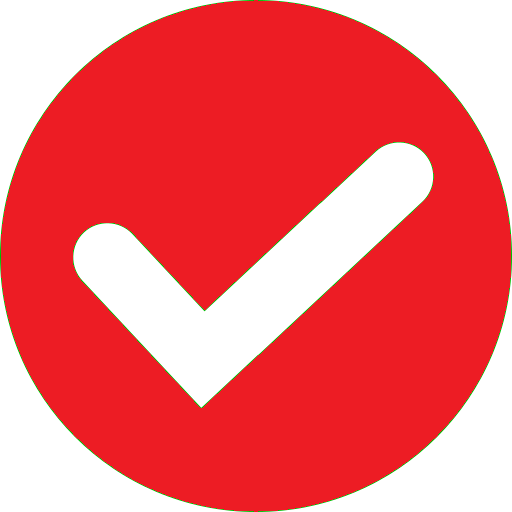
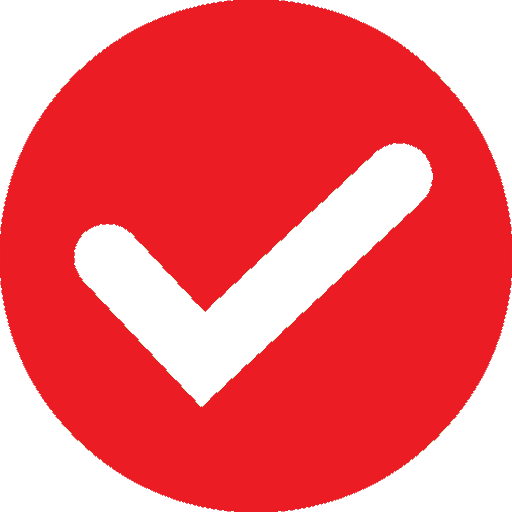
Funcionalities to show check button according days to check data added

diff --git a/src/scripts.js b/src/scripts.js
@@ -16,7 +16,7 @@ const getList = async () => {
       console.log("Data received from server:", data);
       data.dataset.forEach(item => insertList(item.name, item.area, 
         item.permitted, item.coordinate_system, item.check_date, 
-        item.format, item.source))
+        item.format, item.source, item.update_frequency_days));
     })
     .catch((error) => {
       console.error('Error:', error);
@@ -66,7 +66,7 @@ const postData = async (inputName, inputArea, inputDescription, inputSource,
   })
     .then((response) => {
       if (response.ok) {
-        insertList(inputName, inputArea, inputPermitted, inputCoordinateSystem, inputCheckDate, inputFormat)
+        insertList(inputName, inputArea, inputPermitted, inputCoordinateSystem, inputCheckDate, inputFormat, inputUpdateFrequency )
         location.reload();
         alert("Data added!")
       }
@@ -160,6 +160,32 @@ const insertButtonCheckGreen = (parent) => {
   // Anexar button ao elemento pai
   parent.appendChild(button);
 };
+
+/*
+  --------------------------------------------------------------------------------------
+  Function to create a check button with orange icon
+  for each item in the list 
+  --------------------------------------------------------------------------------------
+*/
+const insertButtonCheckOrange = (parent) => {
+  // Criar o elemento button
+  let button = document.createElement("button");
+  button.className = "icon-button-check";
+  button.onclick = checkData;
+
+  // Criar o elemento img
+  let img = document.createElement("img");
+  img.src = "img/check_orange.png";
+  img.alt = "Button with a red check icon";
+  img.title = "Check"; // Usando title como hint
+
+  // Anexar img ao button
+  button.appendChild(img);
+
+  // Anexar button ao elemento pai
+  parent.appendChild(button);
+};
+
 
 /*
   --------------------------------------------------------------------------------------
@@ -975,15 +1001,19 @@ function calculateDateDifferenceDays(checkDate) {
   --------------------------------------------------------------------------------------
 */
 const insertList = (name, area, permitted, coordinateSystem, 
-  checkDate, format, source) => {
+  checkDate, format, source, updateFrequency) => {
   
-  var data = [name, area, permitted, coordinateSystem, format, checkDate];
+  var data = [name, area, permitted, coordinateSystem, format, checkDate, updateFrequency];
 
   var differenceInDaysAdjusted = calculateDateDifferenceDays(checkDate);
   // 5. Verificar o número de dias para definir a unidade
   var dayOrDays = differenceInDaysAdjusted <= 1 ? "day" : "days";
   // 6. Atualizar o valor de checkDate com a diferença e a unidade
   data[5] = `${differenceInDaysAdjusted} ${dayOrDays}`;
+  var daysUntilNextUpdate = updateFrequency - differenceInDaysAdjusted;
+  dayOrDays = daysUntilNextUpdate == 1 ? "day" : "days";
+  data[6] = `${daysUntilNextUpdate} ${dayOrDays}`;
+
   var table = document.getElementById('myTable');
   var row = table.insertRow();
 
@@ -992,15 +1022,19 @@ const insertList = (name, area, permitted, coordinateSystem,
     var cel = row.insertCell(i);
     cel.textContent = data[i];
   }
-  if (differenceInDaysAdjusted <= 90) {
+
+  if (daysUntilNextUpdate > 21) {
     insertButtonCheckGreen(row.insertCell(-1))
-  } else {
+  } else if (daysUntilNextUpdate <= 7) {
       insertButtonCheckRed(row.insertCell(-1))
+  } else {
+    insertButtonCheckOrange(row.insertCell(-1))
   }
-  insertButtonDelete(row.insertCell(-1))
-  insertButtonEdit(row.insertCell(-1))
-  insertButtonInfo(row.insertCell(-1))
-  insertButtonView(row.insertCell(-1), format, source)
+
+  insertButtonDelete(row.insertCell(-1));
+  insertButtonEdit(row.insertCell(-1));
+  insertButtonInfo(row.insertCell(-1));
+  insertButtonView(row.insertCell(-1), format, source);
 
   // Mostra somente a div com a tabela visivel
   document.getElementById("newName").value = "";

diff --git a/src/index.html b/src/index.html
@@ -368,6 +368,7 @@
                             <th>Coordinate System</th>
                             <th>Format</th>
                             <th>Last Check</th>
+                            <th>Next Update</th>
                             <th></th>
                             <th></th>
                             <th></th>
